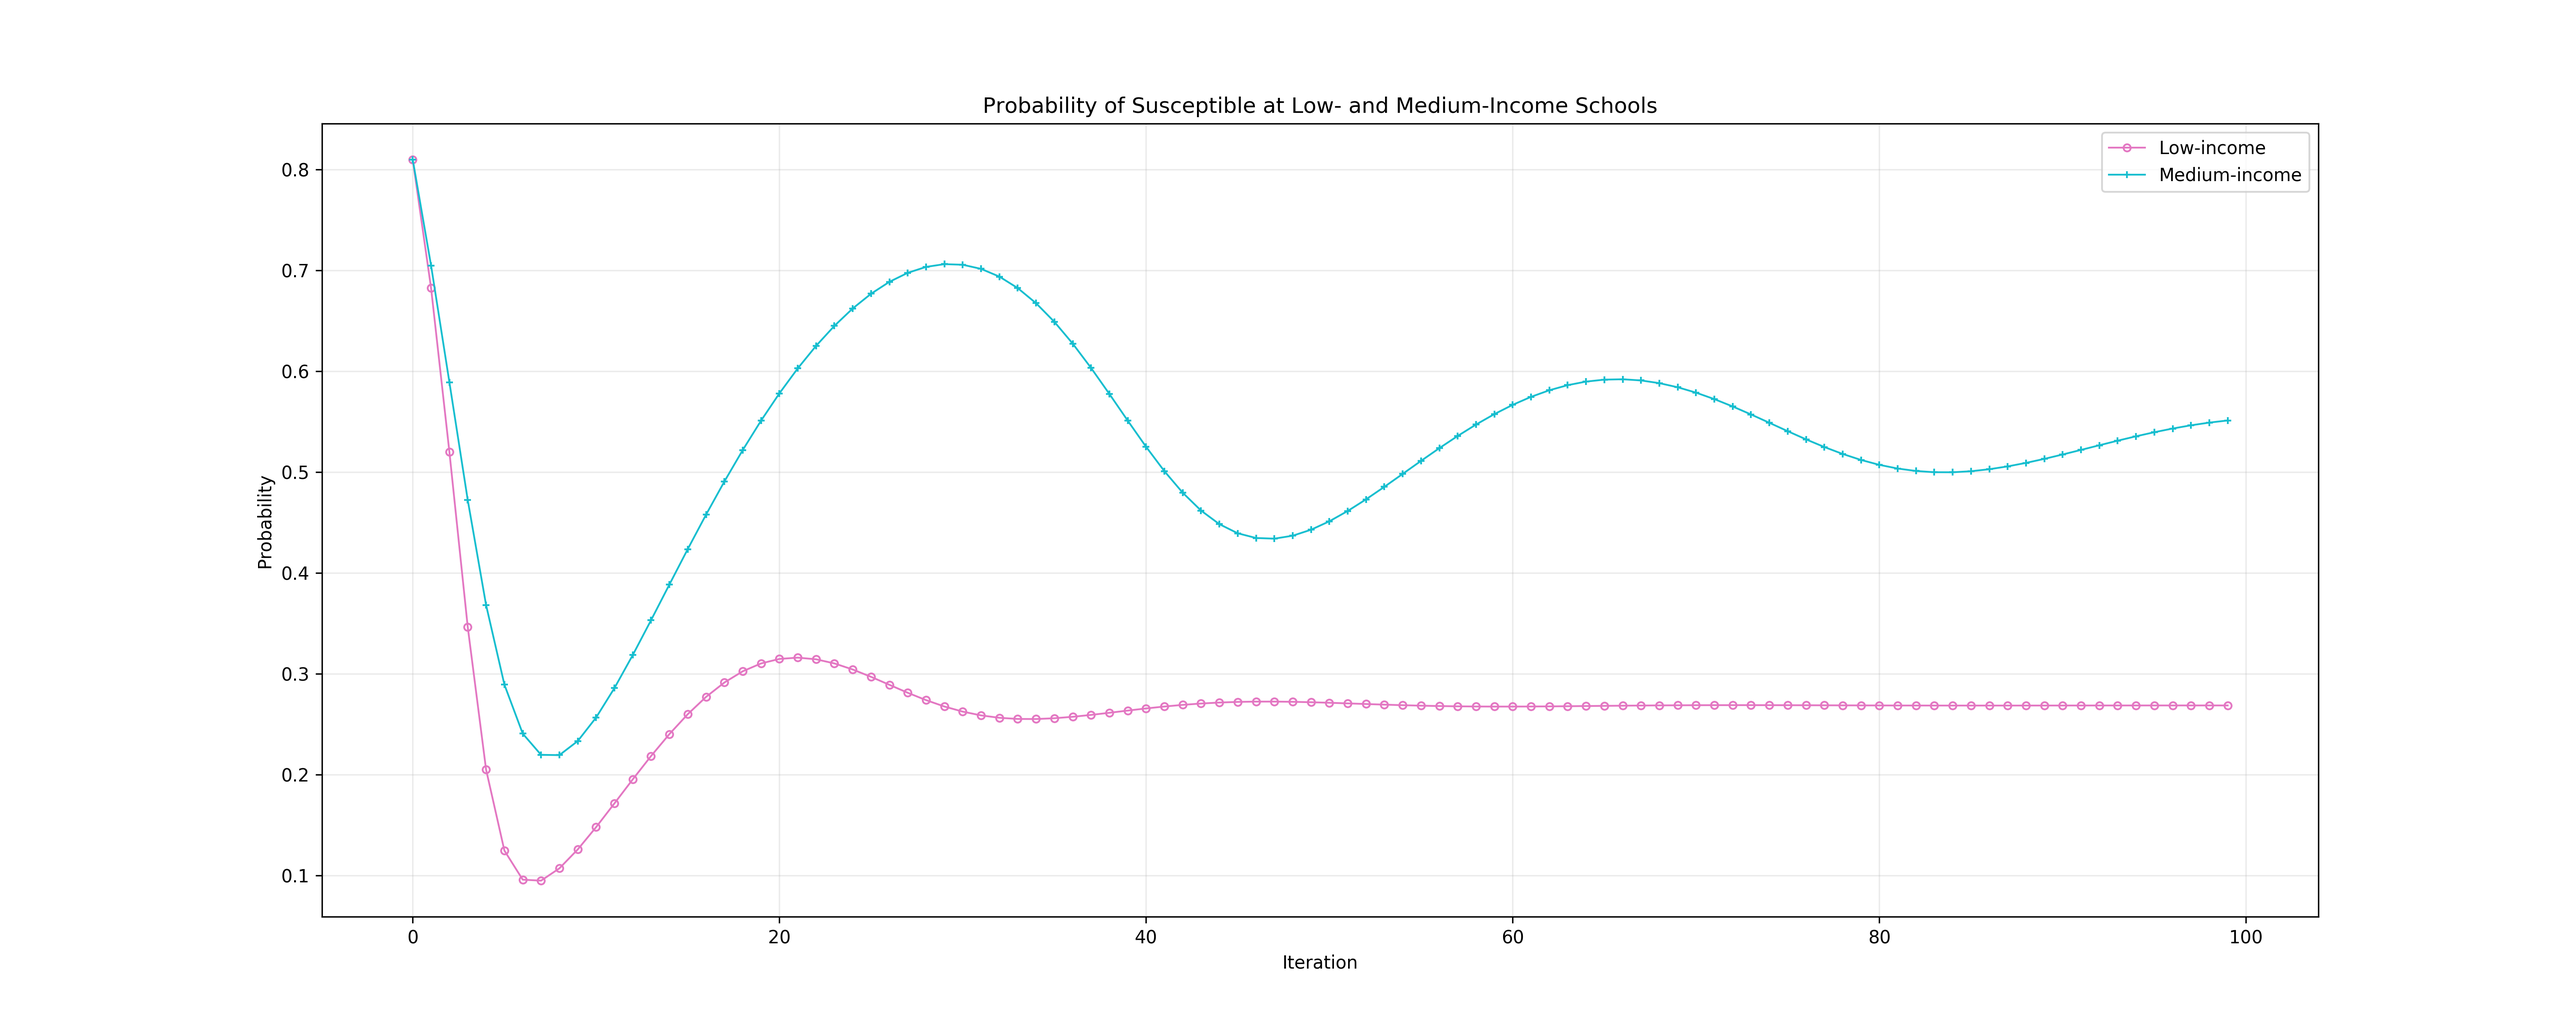
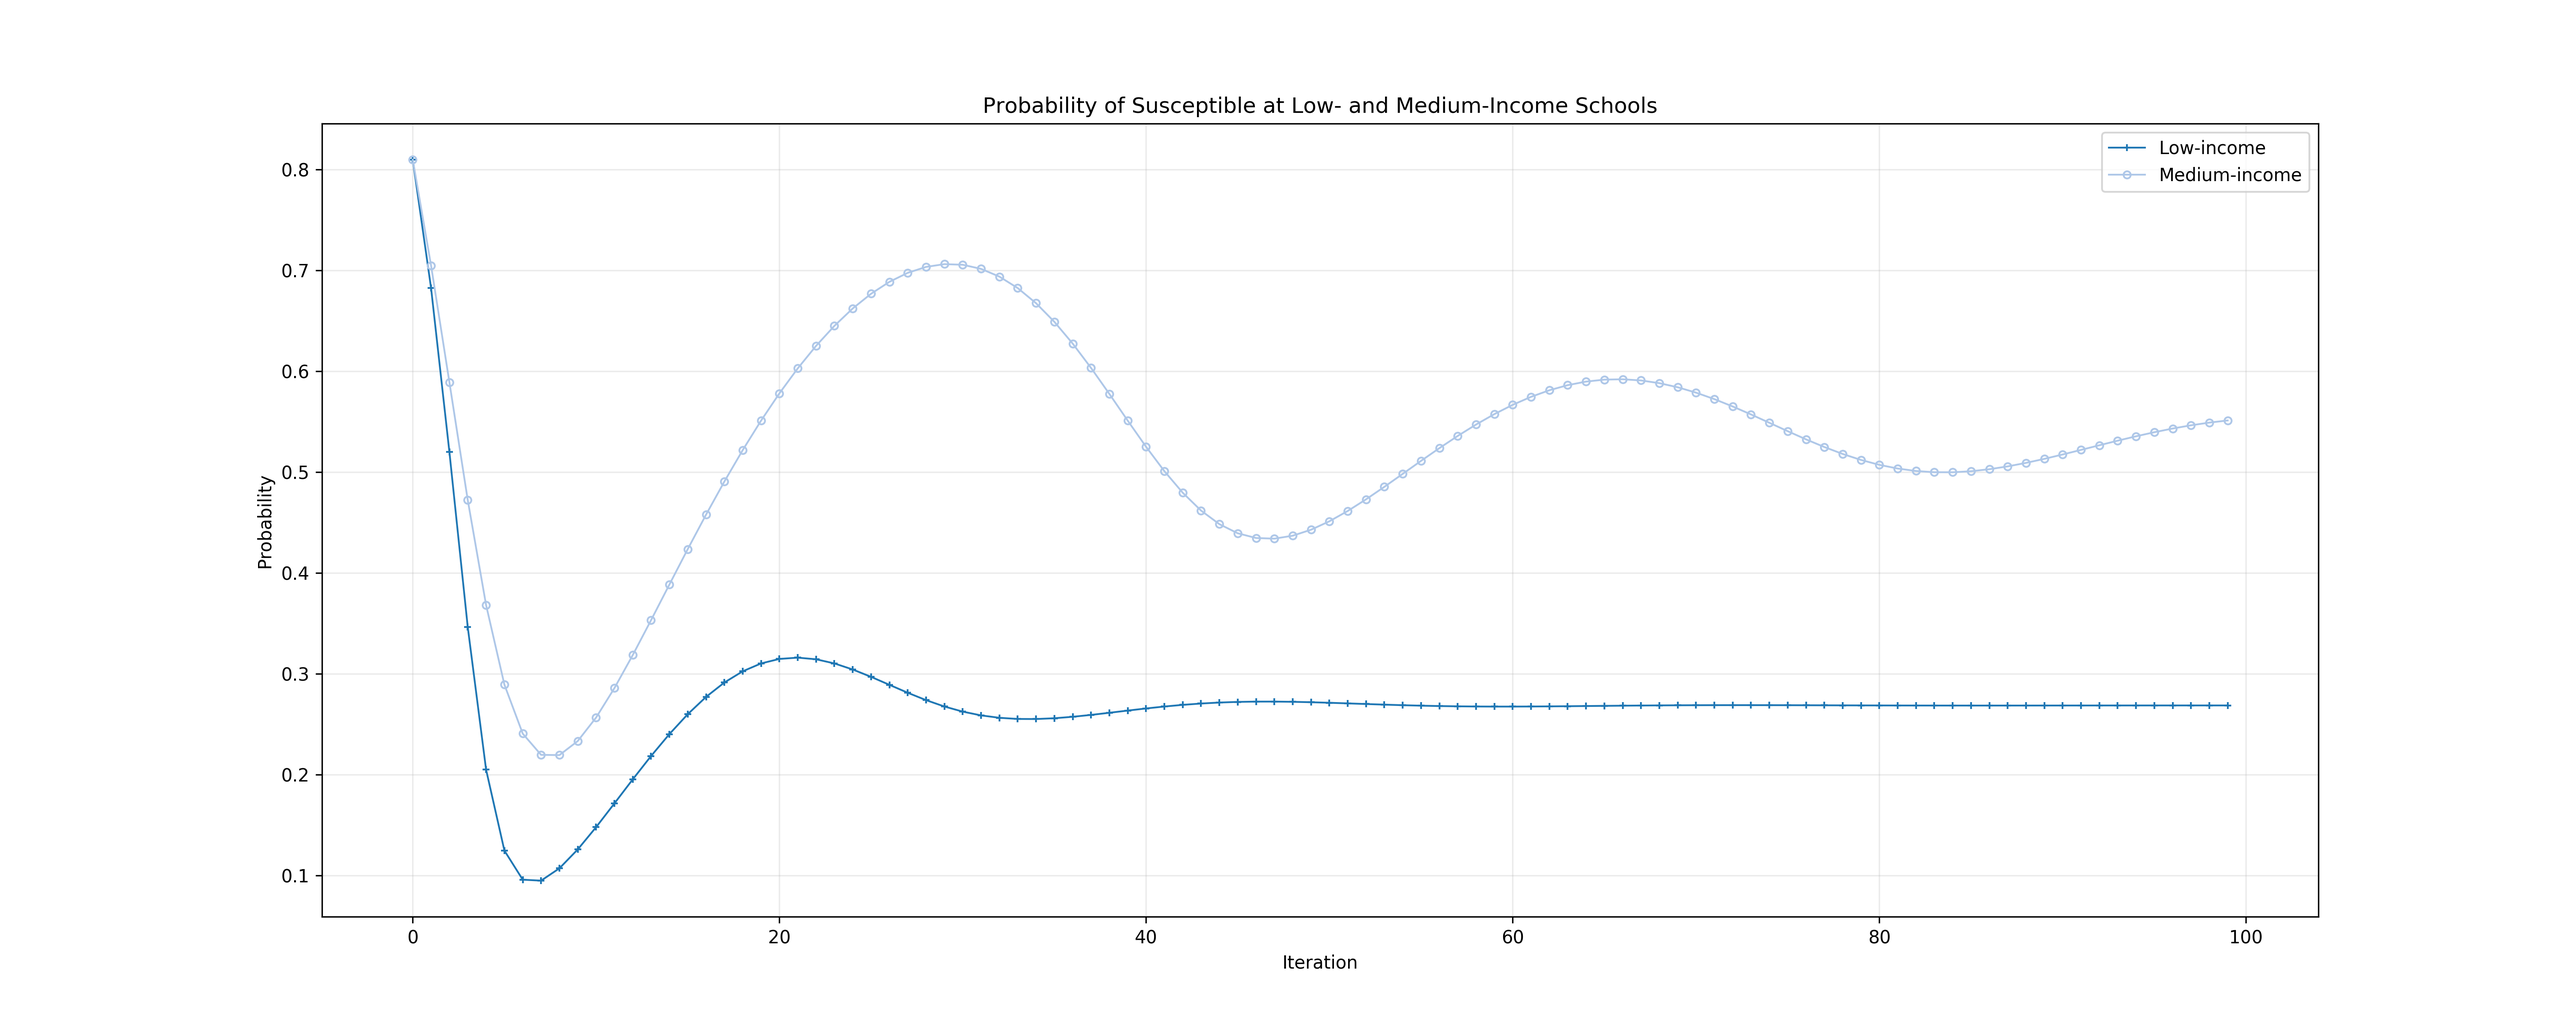
Added better color-coding to the plots

diff --git a/src/sim/demo--2019-04-18/res.py b/src/sim/demo--2019-04-18/res.py
@@ -9,14 +9,14 @@ import pandas as pd
 import sqlite3
 
 
-MARKER_LOW = 'o'  # https://matplotlib.org/api/markers_api.html#module-matplotlib.markers
-MARKER_MED = '+'
+MARKER_LOW = '+'  # https://matplotlib.org/api/markers_api.html#module-matplotlib.markers
+MARKER_MED = 'o'
 
 fpath_db = os.path.join(os.path.dirname(__file__), 'out', '03-flu-allegheny-100-iter.sqlite3')
 
 
 # ----------------------------------------------------------------------------------------------------------------------
-def plot_one_school(tbl, title, marker, fpath):
+def plot_one_school(tbl, title, marker, fpath, cmap_ps, cmap_pe, cmap_pr):  # tab10: 0,2,3
     ''' Plot one of the schools (i.e., a low- or medium-income one). '''
 
     # Data:
@@ -29,24 +29,24 @@ def plot_one_school(tbl, title, marker, fpath):
             data['pr'].append(r[3])
 
     # Plot:
-    cmap = plt.get_cmap('tab10')  # https://matplotlib.org/tutorials/colors/colormaps.html
+    cmap = plt.get_cmap('tab20')  # https://matplotlib.org/tutorials/colors/colormaps.html
     fig = plt.figure(figsize=(20,8))
     plt.title(title)
-    plt.plot(data['i'], data['ps'], lw=1, linestyle='--', marker=marker, color=cmap(0), markersize=5, mfc='none', antialiased=True)
-    plt.plot(data['i'], data['pe'], lw=1, linestyle='-',  marker=marker, color=cmap(2), markersize=5, mfc='none', antialiased=True)
-    plt.plot(data['i'], data['pr'], lw=1, linestyle=':',  marker=marker, color=cmap(3), markersize=5, mfc='none', antialiased=True)
+    plt.plot(data['i'], data['ps'], lw=1, linestyle='--', marker=marker, color=cmap(cmap_ps), markersize=5, mfc='none', antialiased=True)
+    plt.plot(data['i'], data['pe'], lw=1, linestyle='-',  marker=marker, color=cmap(cmap_pe), markersize=5, mfc='none', antialiased=True)
+    plt.plot(data['i'], data['pr'], lw=1, linestyle=':',  marker=marker, color=cmap(cmap_pr), markersize=5, mfc='none', antialiased=True)
     plt.legend(['Susceptible', 'Exposed', 'Recovered'], loc='upper right')
     plt.xlabel('Iteration')
     plt.ylabel('Probability')
     plt.grid(alpha=0.25, antialiased=True)
     fig.savefig(os.path.join(os.path.dirname(__file__), 'out', fpath), dpi=300)
 
-plot_one_school('low_income', 'School with 88% of Low-Income Students', MARKER_LOW, '03-a-low-income-school.png')
-plot_one_school('med_income', 'School with 7% of Low-Income Students',  MARKER_MED, '03-b-med-income-school.png')
+plot_one_school('low_income', 'School with 88% of Low-Income Students', MARKER_LOW, '03-a-low-income-school.png', 0,4,6)
+plot_one_school('med_income', 'School with 7% of Low-Income Students',  MARKER_MED, '03-b-med-income-school.png', 1,5,7)
 
 
 # ----------------------------------------------------------------------------------------------------------------------
-def plot_compare_schools(col, name, fpath):
+def plot_compare_schools(col, name, fpath, cmap_low, cmap_med):  # tab10: 6,9
     ''' Compare the low- and medium-income school based on the specified column (e.g., 'pe'). '''
 
     # Data:
@@ -58,17 +58,17 @@ def plot_compare_schools(col, name, fpath):
             data['p.m'].append(r[2])
 
     # Plot:
-    cmap = plt.get_cmap('tab10')  # https://matplotlib.org/tutorials/colors/colormaps.html
+    cmap = plt.get_cmap('tab20')  # https://matplotlib.org/tutorials/colors/colormaps.html
     fig = plt.figure(figsize=(20,8))
     plt.title(f'Probability of {name} at Low- and Medium-Income Schools')
-    plt.plot(data['i'], data['p.l'], lw=1, linestyle='-', marker=MARKER_LOW, color=cmap(6), markersize=4, mfc='none', antialiased=True)
-    plt.plot(data['i'], data['p.m'], lw=1, linestyle='-', marker=MARKER_MED, color=cmap(9), markersize=4, mfc='none', antialiased=True)
+    plt.plot(data['i'], data['p.l'], lw=1, linestyle='-', marker=MARKER_LOW, color=cmap(cmap_low), markersize=4, mfc='none', antialiased=True)
+    plt.plot(data['i'], data['p.m'], lw=1, linestyle='-', marker=MARKER_MED, color=cmap(cmap_med), markersize=4, mfc='none', antialiased=True)
     plt.legend(['Low-income', 'Medium-income'], loc='upper right')
     plt.xlabel('Iteration')
     plt.ylabel('Probability')
     plt.grid(alpha=0.25, antialiased=True)
     fig.savefig(os.path.join(os.path.dirname(__file__), 'out', fpath), dpi=300)
 
-plot_compare_schools('pe', 'Exposed',     '03-c-low-vs-med-income-school-pe.png')
-plot_compare_schools('ps', 'Susceptible', '03-d-low-vs-med-income-school-ps.png')
-plot_compare_schools('pr', 'Recovered',   '03-e-low-vs-med-income-school-pr.png')
+plot_compare_schools('ps', 'Susceptible', '03-d-low-vs-med-income-school-ps.png', 0,1)
+plot_compare_schools('pe', 'Exposed',     '03-c-low-vs-med-income-school-pe.png', 4,5)
+plot_compare_schools('pr', 'Recovered',   '03-e-low-vs-med-income-school-pr.png', 6,7)
